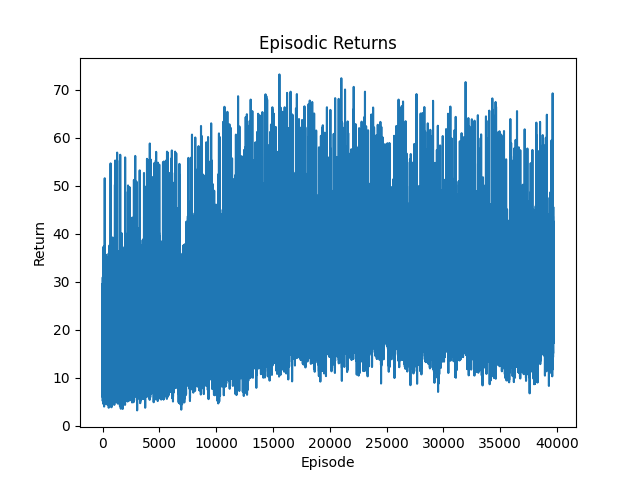
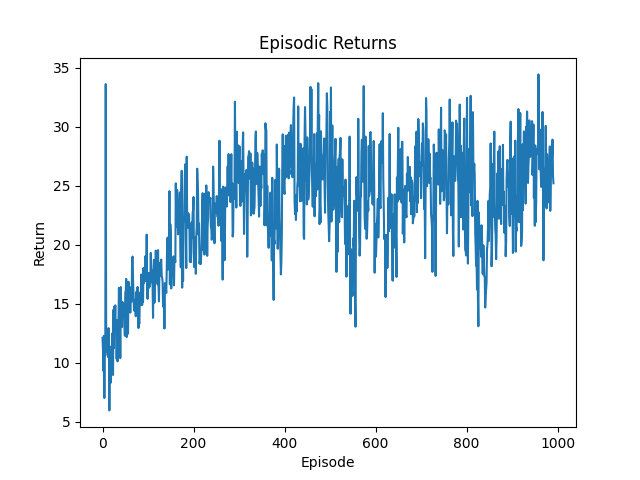
ok

diff --git a/cleanrl_dqn.py b/cleanrl_dqn.py
@@ -23,14 +23,14 @@ class Args:
     torch_deterministic: bool = True
     cuda: bool = True
 
-    total_timesteps: int = 10000000
+    total_timesteps: int = 100000000
     learning_rate: float = 2.5e-4
-    num_envs: int = 64
+    num_envs: int = 128
     buffer_size: int = 10000
     gamma: float = 0.99
     tau: float = 1.0
     target_network_frequency: int = 500
-    batch_size: int = 128
+    batch_size: int = 256
     start_e: float = 1
     end_e: float = 0.05
     exploration_fraction: float = 0.5

diff --git a/tutorial/performance_tutorial.md b/tutorial/performance_tutorial.md
@@ -132,7 +132,7 @@ Transitioning an environment from Python prototypes to ML-ready C++ engines requ
 
 To make your RL environments exceptionally fast, follow these core takeaways:
 1. **Escape the GIL:** Move sequential, branch-heavy simulation logic out of Python and into a parallelized C++ engine (e.g., using OpenMP).
-2. **Respect the Cache:** Pack data densely into Arrays of Structures (AoS) or Structs of Arrays (SoA). Use `uint8_t` instead of floats for booleans to natively fit exponentially more data into a single 64-byte cache line.
+2. **Respect the Cache:** Pack data densely into Arrays of Structures (AoS) or Structs of Arrays (SoA). Use `uint8_t` instead of floats for booleans to natively fit exponentially more data into a single 64-byte cache line. It is important that data which is accessed together in code is located together in RAM. 
 3. **Prevent False Sharing:** Manually calculate and pad your multi-threaded environment state block sizes to align strictly onto independent 64-byte memory boundaries, mathematically stopping CPU threads from invalidating each other's L1 caches.
 4. **Use Zero-Copy Tensors:** Allocate PyTorch Pinned Memory at startup and write directly to it via PyBind11. This unlocks Direct Memory Access (DMA) to completely bypass the CPU and OS paging constraints during PCIe transfers to the GPU.
 5. **Amortize GPU Overheads:** Scale your continuous environment batches into the thousands per forward pass to distribute the static PCIe and CUDA kernel spin-up latencies across massive parallel data volume.
